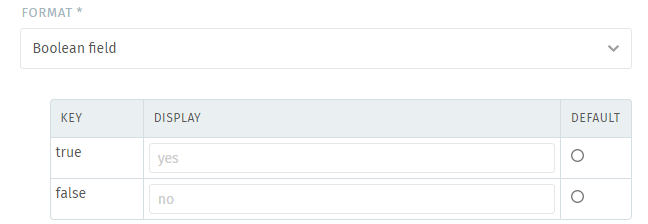
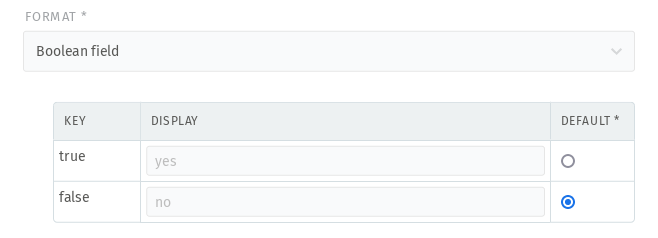
Fixes #487 - Adjusted screenshot and text for mandatory default definition

diff --git a/system/objects/types.rst b/system/objects/types.rst
@@ -39,7 +39,7 @@ attribute types.
 
 Boolean field
    Provides a drop-down field with display values for ``true`` and ``false``.
-   Allows setting a default value.
+   Setting a default is mandatory.
 
    .. figure:: /images/system/objects/settings_boolean.png
       :alt: Available settings for Boolean fields
